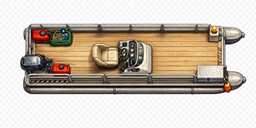
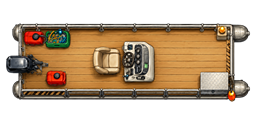
Tune docking tolerance and collision resolution

diff --git a/core/src/main/java/com/markseagle/dockmaster/DockMasterGame.java b/core/src/main/java/com/markseagle/dockmaster/DockMasterGame.java
@@ -256,9 +256,23 @@ public class DockMasterGame extends ApplicationAdapter {
                     float impact = boat.velocity.len();
                     float dmg = boat.handleCollision(impact);
 
-                    // Unsticking
+                    // Robust Collision Separation
                     boat.revertPosition();
-                    boat.nudgeAway(boat.velocity, 2f);
+
+                    // Iterative pushback
+                    int iterations = 10;
+                    Vector2 pushDir = new Vector2(boat.velocity).nor().scl(-1f);
+                    if (pushDir.len() < 0.1f) pushDir.set(0, 1); // Fallback
+
+                    for (int i = 0; i < iterations; i++) {
+                        if (!dock.checkCollision(boat)) break;
+                        boat.x += pushDir.x * 2f;
+                        boat.y += pushDir.y * 2f;
+                        boat.updateBounds();
+                    }
+
+                    // Cap bounce velocity
+                    boat.velocity.limit(80f);
 
                     if (state == GameState.TUTORIAL) {
                         boat.damage = 0; // No damage in training
@@ -536,7 +550,7 @@ public class DockMasterGame extends ApplicationAdapter {
             dock.drawDocks(shapeRenderer);
         }
 
-        dock.drawSlipZone(shapeRenderer, boat);
+        dock.drawSlipZoneFilled(shapeRenderer, boat);
         drawEnvironmentalIndicators(shapeRenderer, currentLevel);
 
         if (!USE_TEXTURES || !textureManager.hasTexture("buoy")) {
@@ -551,13 +565,14 @@ public class DockMasterGame extends ApplicationAdapter {
             boat.draw(shapeRenderer);
         }
 
+        shapeRenderer.end();
+
+        // --- PASS 2.5: LINES ---
+        shapeRenderer.begin(ShapeRenderer.ShapeType.Line);
+        dock.drawSlipZoneLines(shapeRenderer, boat);
         if (inputController.debugToggled && dock.slipZone != null) {
             shapeRenderer.setColor(Color.RED);
-            shapeRenderer.end();
-            shapeRenderer.begin(ShapeRenderer.ShapeType.Line);
             shapeRenderer.rect(dock.slipZone.x, dock.slipZone.y, dock.slipZone.width, dock.slipZone.height);
-            shapeRenderer.end();
-            shapeRenderer.begin(ShapeRenderer.ShapeType.Filled);
         }
         shapeRenderer.end();
 
@@ -1231,30 +1246,36 @@ public class DockMasterGame extends ApplicationAdapter {
         if (dock.slipZone != null) {
             font.draw(batch, "Target: " + (int)dock.slipZone.x + "," + (int)dock.slipZone.y, x, y - 80);
             font.draw(batch, "In Zone: " + dock.slipZone.contains(boat.x, boat.y), x, y - 100);
-            font.draw(batch, "Progress: " + (int)(dock.getDockingProgress() * 100) + "%", x, y - 120);
-            font.draw(batch, "Fail Reason: " + dock.lastFailureReason, x, y - 140);
+            font.draw(batch, "Speed: " + (int)boat.velocity.len() + " / " + (int)dock.dockingMaxSpeed, x, y - 120);
+
+            float angleDiff = Math.abs(boat.angle % 360 - dock.targetAngle);
+            if (angleDiff > 180) angleDiff = 360 - angleDiff;
+            font.draw(batch, "Angle Diff: " + (int)angleDiff + " / " + (int)dock.dockingAngleTolerance, x, y - 140);
+
+            font.draw(batch, "Progress: " + (int)(dock.getDockingProgress() * 100) + "% (" + String.format("%.1f", dock.dockingHoldTime) + "s)", x, y - 160);
+            font.draw(batch, "Fail Reason: " + dock.lastFailureReason, x, y - 180);
         }
 
-        font.draw(batch, "Motor Vol: " + String.format("%.2f", soundManager.getMotorVolume()), x, y - 160);
-        font.draw(batch, "Motor Pitch: " + String.format("%.2f", soundManager.getMotorPitch()), x, y - 180);
+        font.draw(batch, "Motor Vol: " + String.format("%.2f", soundManager.getMotorVolume()), x, y - 200);
+        font.draw(batch, "Motor Pitch: " + String.format("%.2f", soundManager.getMotorPitch()), x, y - 220);
 
-        font.draw(batch, "Upgrades: E" + boat.engineLevel + " S" + boat.steeringLevel + " H" + boat.hullLevel + " R" + boat.reverseLevel, x, y - 200);
+        font.draw(batch, "Upgrades: E" + boat.engineLevel + " S" + boat.steeringLevel + " H" + boat.hullLevel + " R" + boat.reverseLevel, x, y - 240);
 
         String boatTex = textureManager.getTextureStatus("boat_" + boat.profile.id);
         String boatAlpha = textureManager.getAlphaStatus("boat_" + boat.profile.id);
         String waterTex = textureManager.getTextureStatus("water_tile");
         String dockTex = textureManager.getTextureStatus("dock_plank");
 
-        font.draw(batch, "Tex Mode: " + (USE_TEXTURES ? "ON" : "OFF"), x, y - 220);
-        font.draw(batch, "Boat Tex: " + boatTex + " (" + boatAlpha + ")", x, y - 240);
-        font.draw(batch, "Water Tex: " + waterTex, x, y - 260);
-        font.draw(batch, "Dock Tex: " + dockTex, x, y - 280);
+        font.draw(batch, "Tex Mode: " + (USE_TEXTURES ? "ON" : "OFF"), x, y - 260);
+        font.draw(batch, "Boat Tex: " + boatTex + " (" + boatAlpha + ")", x, y - 280);
+        font.draw(batch, "Water Tex: " + waterTex, x, y - 300);
+        font.draw(batch, "Dock Tex: " + dockTex, x, y - 320);
 
-        font.draw(batch, "Render Scale: " + String.format("%.2f", boat.profile.visualScale), x, y - 300);
-        font.draw(batch, "Visual Size: " + (int)(boat.profile.length * boat.profile.visualScale) + "x" + (int)(boat.profile.width * boat.profile.visualScale), x, y - 320);
-        font.draw(batch, "Collision Size: " + (int)boat.profile.length + "x" + (int)boat.profile.width, x, y - 340);
-        font.draw(batch, "Cam Zoom: " + String.format("%.2f", worldCamera.zoom), x, y - 360);
-        font.draw(batch, "Paused: " + (state == GameState.PAUSED), x, y - 380);
+        font.draw(batch, "Render Scale: " + String.format("%.2f", boat.profile.visualScale), x, y - 340);
+        font.draw(batch, "Visual Size: " + (int)(boat.profile.length * boat.profile.visualScale) + "x" + (int)(boat.profile.width * boat.profile.visualScale), x, y - 360);
+        font.draw(batch, "Collision Size: " + (int)boat.profile.length + "x" + (int)boat.profile.width, x, y - 380);
+        font.draw(batch, "Cam Zoom: " + String.format("%.2f", worldCamera.zoom), x, y - 400);
+        font.draw(batch, "Paused: " + (state == GameState.PAUSED), x, y - 420);
     }
 
     @Override

diff --git a/core/src/main/java/com/markseagle/dockmaster/Dock.java b/core/src/main/java/com/markseagle/dockmaster/Dock.java
@@ -8,14 +8,20 @@ import com.badlogic.gdx.math.Polygon;
 import com.badlogic.gdx.math.Rectangle;
 import java.util.ArrayList;
 import java.util.List;
+import com.badlogic.gdx.math.MathUtils;
 
 public class Dock {
     public Rectangle slipZone;
     public List<Polygon> collisionPolys = new ArrayList<>();
     public float targetAngle = 90;
 
+    // Level-specific tolerances
+    public float dockingMaxSpeed = 35f;
+    public float dockingAngleTolerance = 30f;
+    public float dockingHoldTime = 1.8f;
+    public float dockingZonePadding = 0f;
+
     private float dockingTimer = 0;
-    private final float DOCKING_TIME_REQUIRED = 1.8f;
     public boolean successfullyDocked = false;
 
     // Debugging
@@ -39,6 +45,10 @@ public class Dock {
             collisionPolys.add(poly);
         }
         this.targetAngle = level.targetAngle;
+        this.dockingMaxSpeed = level.dockingMaxSpeed;
+        this.dockingAngleTolerance = level.dockingAngleTolerance;
+        this.dockingHoldTime = level.dockingHoldTime;
+        this.dockingZonePadding = level.dockingZonePadding;
         reset();
     }
 
@@ -48,7 +58,7 @@ public class Dock {
         if (isInsideSlipZone(boat)) {
             dockingTimer += delta;
             lastFailureReason = "stabilizing";
-            if (dockingTimer >= DOCKING_TIME_REQUIRED) {
+            if (dockingTimer >= dockingHoldTime) {
                 successfullyDocked = true;
                 lastFailureReason = "docked";
             }
@@ -70,14 +80,18 @@ public class Dock {
     public boolean isInsideSlipZone(Boat boat) {
         if (slipZone == null) return false;
 
+        // More forgiving check with padding
+        Rectangle checkZone = new Rectangle(slipZone.x - dockingZonePadding, slipZone.y - dockingZonePadding,
+                                          slipZone.width + dockingZonePadding * 2, slipZone.height + dockingZonePadding * 2);
+
         // Boat center must be inside
-        if (!slipZone.contains(boat.x, boat.y)) {
+        if (!checkZone.contains(boat.x, boat.y)) {
             lastFailureReason = "outside target";
             return false;
         }
 
         // Speed check
-        if (boat.velocity.len() >= 35f) {
+        if (boat.velocity.len() >= dockingMaxSpeed) {
             lastFailureReason = "too fast";
             return false;
         }
@@ -85,7 +99,7 @@ public class Dock {
         // Angle check
         float angleDiff = Math.abs(boat.angle % 360 - targetAngle);
         if (angleDiff > 180) angleDiff = 360 - angleDiff;
-        if (angleDiff > 30f) { // More forgiving
+        if (angleDiff > dockingAngleTolerance) {
             lastFailureReason = "bad angle";
             return false;
         }
@@ -94,7 +108,7 @@ public class Dock {
     }
 
     public float getDockingProgress() {
-        return Math.min(1.0f, dockingTimer / DOCKING_TIME_REQUIRED);
+        return Math.min(1.0f, dockingTimer / dockingHoldTime);
     }
 
     private float glowTimer = 0;
@@ -143,7 +157,7 @@ public class Dock {
         }
     }
 
-    public void drawSlipZone(ShapeRenderer shape, Boat boat) {
+    public void drawSlipZoneFilled(ShapeRenderer shape, Boat boat) {
         if (slipZone == null) return;
         glowTimer += Gdx.graphics.getDeltaTime();
 
@@ -155,10 +169,13 @@ public class Dock {
             float pulse = (float)(Math.sin(glowTimer * 6f) + 1.0f) * 0.15f;
             Color zoneColor = new Color(0.2f, 0.6f, 1.0f, 0.2f + pulse); // Default blue-ish
 
-            if (slipZone.contains(boat.x, boat.y)) {
+            if (slipZone.contains(boat.x, boat.y) ||
+               (dockingZonePadding > 0 && new Rectangle(slipZone.x - dockingZonePadding, slipZone.y - dockingZonePadding,
+                slipZone.width + dockingZonePadding * 2, slipZone.height + dockingZonePadding * 2).contains(boat.x, boat.y))) {
+
                 if (isInsideSlipZone(boat)) {
                     zoneColor = new Color(0.5f, 1f, 0.5f, 0.4f + pulse); // Valid stabilizing
-                } else if (boat.velocity.len() >= 35f) {
+                } else if (boat.velocity.len() >= dockingMaxSpeed) {
                     zoneColor = new Color(1f, 0.3f, 0.1f, 0.4f + pulse); // Too fast
                 } else {
                     zoneColor = new Color(1f, 1f, 0f, 0.4f + pulse); // Bad angle
@@ -168,10 +185,18 @@ public class Dock {
         }
         shape.rect(slipZone.x, slipZone.y, slipZone.width, slipZone.height);
 
+        // 3. Progress bar
+        if (dockingTimer > 0 && !successfullyDocked) {
+            shape.setColor(Color.LIME);
+            shape.rect(slipZone.x, slipZone.y - 18, slipZone.width * getDockingProgress(), 10);
+        }
+    }
+
+    public void drawSlipZoneLines(ShapeRenderer shape, Boat boat) {
+        if (slipZone == null) return;
+
         // Target outline
         shape.setColor(1, 1, 1, 0.5f);
-        shape.end();
-        shape.begin(ShapeRenderer.ShapeType.Line);
         shape.rect(slipZone.x, slipZone.y, slipZone.width, slipZone.height);
 
         // Directional indicator
@@ -182,19 +207,10 @@ public class Dock {
         float dy = MathUtils.sinDeg(targetAngle) * arrowLen;
         shape.line(centerX - dx, centerY - dy, centerX + dx, centerY + dy);
 
-        shape.end();
-        shape.begin(ShapeRenderer.ShapeType.Filled);
-
-        // 3. Progress bar
+        // 3. Progress bar outline
         if (dockingTimer > 0 && !successfullyDocked) {
-            shape.setColor(Color.LIME);
-            shape.rect(slipZone.x, slipZone.y - 18, slipZone.width * getDockingProgress(), 10);
             shape.setColor(Color.WHITE);
-            shape.end();
-            shape.begin(ShapeRenderer.ShapeType.Line);
             shape.rect(slipZone.x, slipZone.y - 18, slipZone.width, 10);
-            shape.end();
-            shape.begin(ShapeRenderer.ShapeType.Filled);
         }
     }
 

diff --git a/core/src/main/java/com/markseagle/dockmaster/LevelManager.java b/core/src/main/java/com/markseagle/dockmaster/LevelManager.java
@@ -22,6 +22,10 @@ public class LevelManager {
             500, 45f
         );
         lvl1.targetAngle = 90f;
+        lvl1.dockingMaxSpeed = 55f;
+        lvl1.dockingAngleTolerance = 60f;
+        lvl1.dockingHoldTime = 1.0f;
+        lvl1.dockingZonePadding = 20f;
         lvl1.addDock(0, 550, 800, 50);
         lvl1.addDock(300, 450, 50, 100);
         lvl1.addDock(450, 450, 50, 100);
@@ -35,6 +39,10 @@ public class LevelManager {
             750, 50f
         );
         lvl2.targetAngle = 0f;
+        lvl2.dockingMaxSpeed = 50f;
+        lvl2.dockingAngleTolerance = 55f;
+        lvl2.dockingHoldTime = 1.1f;
+        lvl2.dockingZonePadding = 15f;
         lvl2.addDock(0, 0, 800, 20);
         lvl2.addDock(0, 580, 800, 20);
         lvl2.addDock(600, 200, 20, 300);
@@ -50,6 +58,10 @@ public class LevelManager {
             1000, 60f
         );
         lvl3.targetAngle = 180f;
+        lvl3.dockingMaxSpeed = 45f;
+        lvl3.dockingAngleTolerance = 50f;
+        lvl3.dockingHoldTime = 1.2f;
+        lvl3.dockingZonePadding = 10f;
         lvl3.addDock(0, 0, 20, 600);
         lvl3.addDock(0, 0, 800, 20);
         lvl3.addDock(150, 0, 20, 400);
@@ -66,6 +78,9 @@ public class LevelManager {
             1250, 65f
         );
         lvl4.targetAngle = -90f;
+        lvl4.dockingMaxSpeed = 40f;
+        lvl4.dockingAngleTolerance = 40f;
+        lvl4.dockingHoldTime = 1.5f;
         lvl4.addDock(550, 0, 250, 50);
         lvl4.addDock(550, 50, 50, 200);
         lvl4.addDock(750, 50, 50, 200);

diff --git a/core/src/main/java/com/markseagle/dockmaster/Boat.java b/core/src/main/java/com/markseagle/dockmaster/Boat.java
@@ -10,7 +10,7 @@ public class Boat {
     public BoatDefinition profile;
 
     public float x, y;
-    public float previousX, previousY;
+    public float previousX, previousY, previousAngle;
     public float angle; // in degrees
     public Vector2 velocity = new Vector2();
     public float damage = 0;
@@ -71,6 +71,7 @@ public class Boat {
 
         previousX = x;
         previousY = y;
+        previousAngle = angle;
 
         Vector2 forwardDir = new Vector2(MathUtils.cosDeg(angle), MathUtils.sinDeg(angle));
         float forwardVelocityMag = velocity.dot(forwardDir);
@@ -142,7 +143,7 @@ public class Boat {
         updateBounds();
     }
 
-    private void updateBounds() {
+    public void updateBounds() {
         bounds.setPosition(x, y);
         bounds.setRotation(angle);
     }
@@ -218,6 +219,7 @@ public class Boat {
         this.y = y;
         this.previousY = y;
         this.angle = angle;
+        this.previousAngle = angle;
         this.velocity.set(0, 0);
         this.damage = startDamage;
         this.active = startDamage < 100;
@@ -227,6 +229,7 @@ public class Boat {
     public void revertPosition() {
         this.x = previousX;
         this.y = previousY;
+        this.angle = previousAngle;
         updateBounds();
     }
 

diff --git a/core/src/main/java/com/markseagle/dockmaster/LevelDefinition.java b/core/src/main/java/com/markseagle/dockmaster/LevelDefinition.java
@@ -16,6 +16,12 @@ public class LevelDefinition {
     public float parTimeSeconds;
     public float targetAngle = 90f; // Default docking angle
 
+    // Docking Tolerances
+    public float dockingMaxSpeed = 35f;
+    public float dockingAngleTolerance = 30f;
+    public float dockingHoldTime = 1.8f;
+    public float dockingZonePadding = 0f;
+
     // Environmental forces
     public Vector2 windForce = new Vector2(0, 0);
     public List<CurrentZone> currentZones = new ArrayList<>();